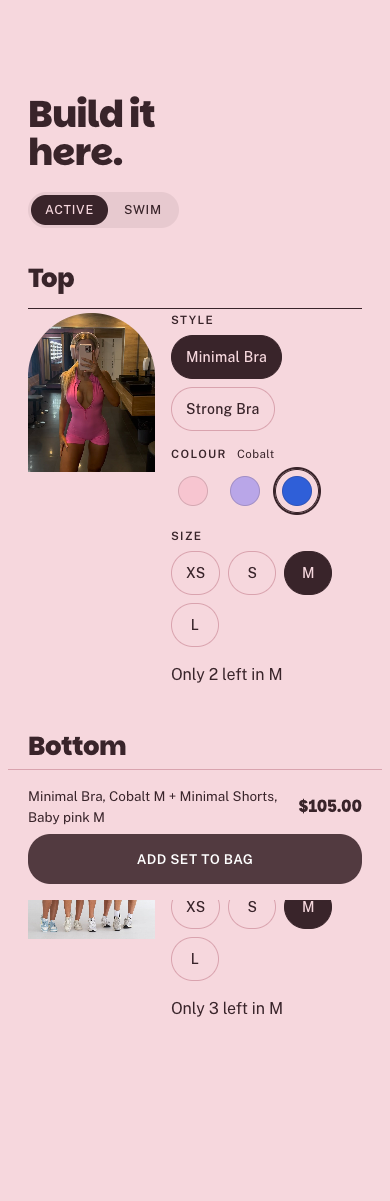
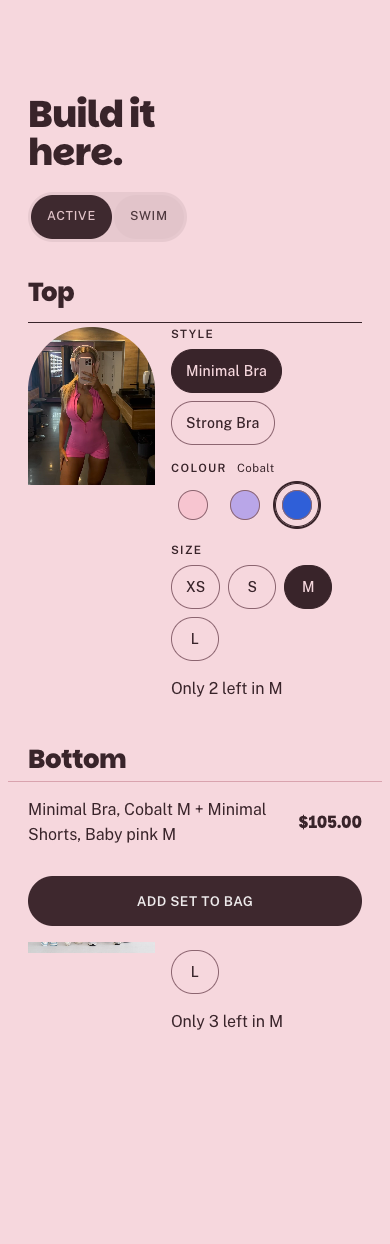
Bebita Collective: UI/UX Pro Max pass (16px body text, press feedback, faster exits)

diff --git a/projects/shopify-store/bebita/theme/assets/bebita.css b/projects/shopify-store/bebita/theme/assets/bebita.css
@@ -107,7 +107,7 @@ body h1, body h2, body h3 { font-family: var(--bb-display); font-weight: 800; le
 .bb-build__text { padding: 36px 20px 0; }
 .bb-build__text p { margin: 18px 0 0; }
 .bb-steps { list-style: none; margin: 28px 0 0; padding: 0; border-top: 1px solid var(--bb-rose); }
-.bb-steps li { display: grid; grid-template-columns: 72px 1fr; gap: 12px; padding: 14px 0; border-bottom: 1px solid var(--bb-rose); font-size: 15px; }
+.bb-steps li { display: grid; grid-template-columns: 72px 1fr; gap: 12px; padding: 14px 0; border-bottom: 1px solid var(--bb-rose); font-size: 16px; line-height: 1.5; }
 .bb-steps span { font-size: 11.5px; font-weight: 600; letter-spacing: 0.12em; text-transform: uppercase; padding-top: 2px; }
 
 /* Lines: Active bleeds left, Swim mirrors it and bleeds right */
@@ -124,7 +124,7 @@ body h1, body h2, body h3 { font-family: var(--bb-display); font-weight: 800; le
 /* Statement: the one inverted band */
 .bb-statement { background: var(--bb-plum); color: var(--bb-ground); margin-top: 96px; padding: 96px 20px 88px; }
 .bb .bb-statement__line { color: var(--bb-ground); font-size: clamp(40px, 11vw, 104px); line-height: 1; max-width: 12ch; margin: 0; }
-.bb .bb-statement__sub { margin: 28px 0 0; color: var(--bb-on-plum-muted); font-size: 15px; letter-spacing: 0.02em; }
+.bb .bb-statement__sub { margin: 28px 0 0; color: var(--bb-on-plum-muted); font-size: 16px; letter-spacing: 0.02em; }
 
 /* Change room: offset pair */
 .bb-room { display: grid; grid-template-columns: 1fr 1fr; gap: 0 14px; padding: 96px 20px 16px; }
@@ -139,8 +139,8 @@ body h1, body h2, body h3 { font-family: var(--bb-display); font-weight: 800; le
 /* Promise strip: hairlines, no boxes */
 .bb-promise { padding: 72px 20px 88px; }
 .bb-promise ul { list-style: none; margin: 0; padding: 0; display: grid; grid-template-columns: 1fr 1fr; border-top: 1px solid var(--bb-plum); }
-.bb-promise li { padding: 18px 12px 18px 0; border-bottom: 1px solid var(--bb-rose); font-size: 14px; line-height: 1.45; }
-.bb-promise strong { display: block; font-weight: 600; font-size: 14.5px; margin-bottom: 4px; }
+.bb-promise li { padding: 18px 12px 18px 0; border-bottom: 1px solid var(--bb-rose); font-size: 16px; line-height: 1.5; }
+.bb-promise strong { display: block; font-weight: 600; font-size: 16px; margin-bottom: 4px; }
 
 /* Reveal: fade and a short rise, one idea at a time */
 [data-reveal] { opacity: 1; }
@@ -289,17 +289,17 @@ body h1, body h2, body h3 { font-family: var(--bb-display); font-weight: 800; le
 .bb-slot__group[hidden] { display: none; }
 .bb-slot__label { font-size: 11.5px; font-weight: 600; letter-spacing: 0.12em; text-transform: uppercase; }
 .bb-slot__label em { font-style: normal; font-weight: 400; letter-spacing: 0.04em; text-transform: none; margin-left: 6px; }
-.bb-slot__stock { margin: 0; font-size: 13.5px; min-height: 1.4em; }
+.bb-slot__stock { margin: 0; font-size: 15px; min-height: 1.5em; }
 .bb-slot__empty { grid-column: 1 / -1; margin: 0; font-size: 15px; }
 .bb-picker__bar { position: sticky; bottom: 0; z-index: 2; margin: 40px -20px -96px; padding: 16px 20px calc(16px + env(safe-area-inset-bottom));
   background: var(--bb-ground); border-top: 1px solid var(--bb-rose); display: grid; grid-template-columns: 1fr auto; gap: 6px 16px; align-items: center; }
-.bb .bb-picker__summary { margin: 0; font-size: 13.5px; grid-column: 1 / 2; max-width: none; }
-.bb-picker__total { margin: 0; font-family: var(--bb-display); font-weight: 800; font-size: 22px; grid-column: 2; grid-row: 1; text-align: right; }
+.bb .bb-picker__summary { margin: 0; font-size: 16px; grid-column: 1 / 2; max-width: none; }
+.bb-picker__total { margin: 0; font-family: var(--bb-display); font-weight: 800; font-size: 22px; font-variant-numeric: tabular-nums; grid-column: 2; grid-row: 1; text-align: right; }
 .bb-picker__total small { display: block; font-family: var(--bb-body); font-weight: 400; font-size: 12px; }
 .bb-pill--static { position: static; grid-column: 1 / -1; width: 100%; height: 50px; border: 0; cursor: pointer; font-family: var(--bb-body); }
 .bb-pill--static[disabled] { background: var(--bb-disabled-bg); color: var(--bb-disabled-ink) !important; cursor: not-allowed; }
 .bb-pill--static[aria-busy="true"] { opacity: 0.8; }
-.bb .bb-picker__error { grid-column: 1 / -1; margin: 0; color: var(--bb-error); font-size: 13.5px; max-width: none; }
+.bb .bb-picker__error { grid-column: 1 / -1; margin: 0; color: var(--bb-error); font-size: 15px; max-width: none; }
 
 /* Product page */
 .bb-product { padding: 0 0 72px; }
@@ -316,7 +316,7 @@ body h1, body h2, body h3 { font-family: var(--bb-display); font-weight: 800; le
 .bb-option { border: 0; margin: 0; padding: 0; min-width: 0; }
 .bb-option legend { padding: 0 0 10px; font-size: 11.5px; font-weight: 600; letter-spacing: 0.12em; text-transform: uppercase; }
 .bb-option legend em { font-style: normal; font-weight: 400; letter-spacing: 0.04em; text-transform: none; margin-left: 6px; }
-.bb-product__stock { margin: -8px 0 0; min-height: 1.4em; font-size: 14px; }
+.bb-product__stock { margin: -8px 0 0; min-height: 1.5em; font-size: 16px; }
 .bb-product__add { height: 54px; font-size: 14px; }
 .bb-pair { border-top: 1px solid var(--bb-plum); padding-top: 18px; display: grid; gap: 12px; }
 .bb-pair__label { margin: 0; font-size: 11.5px; font-weight: 600; letter-spacing: 0.12em; text-transform: uppercase; }
@@ -326,11 +326,11 @@ body h1, body h2, body h3 { font-family: var(--bb-display); font-weight: 800; le
 .bb-pair .bb-arrow { margin-top: 0; justify-self: start; }
 .bb-details { border-top: 1px solid var(--bb-rose); }
 .bb-details details { border-bottom: 1px solid var(--bb-rose); }
-.bb-details summary { list-style: none; cursor: pointer; padding: 18px 0; display: flex; justify-content: space-between; font-weight: 600; font-size: 15px; }
+.bb-details summary { list-style: none; cursor: pointer; padding: 18px 0; min-height: 44px; display: flex; justify-content: space-between; font-weight: 600; font-size: 16px; }
 .bb-details summary::-webkit-details-marker { display: none; }
 .bb-details summary::after { content: '+'; font-weight: 400; font-size: 20px; line-height: 1; }
 .bb-details details[open] summary::after { content: '–'; }
-.bb-rte { padding: 0 0 18px; font-size: 15px; line-height: 1.6; }
+.bb-rte { padding: 0 0 18px; font-size: 16px; line-height: 1.6; }
 .bb-rte p { margin: 0 0 10px; max-width: 60ch; }
 
 /* Collection page */
@@ -346,8 +346,8 @@ body h1, body h2, body h3 { font-family: var(--bb-display); font-weight: 800; le
 .bb-card__alt { opacity: 0; }
 @media (hover: hover) { .bb-card a:hover .bb-card__alt { opacity: 1; } }
 .bb-card__flag { position: absolute; left: 50%; bottom: 12px; transform: translateX(-50%); background: var(--bb-plum); color: var(--bb-ground); border-radius: 999px; padding: 6px 12px; font-size: 11px; font-weight: 600; letter-spacing: 0.1em; text-transform: uppercase; }
-.bb .bb-card__title { margin: 12px 0 0; font-weight: 600; font-size: 15px; max-width: none; }
-.bb .bb-card__meta { margin: 4px 0 0; display: flex; justify-content: space-between; gap: 8px; font-size: 14px; max-width: none; font-variant-numeric: tabular-nums; }
+.bb .bb-card__title { margin: 12px 0 0; font-weight: 600; font-size: 16px; max-width: none; }
+.bb .bb-card__meta { margin: 4px 0 0; display: flex; justify-content: space-between; gap: 8px; font-size: 15px; max-width: none; font-variant-numeric: tabular-nums; }
 .bb-pages { display: flex; justify-content: center; gap: 24px; margin-top: 48px; font-size: 14px; }
 .bb-collection__empty p { font-size: 17px; }
 
@@ -387,3 +387,14 @@ body h1, body h2, body h3 { font-family: var(--bb-display); font-weight: 800; le
 
 .bb-picker__soon { border-top: 1px solid var(--bb-plum); padding-top: 22px; }
 .bb .bb-picker__soon p { font-size: 17px; margin: 0; }
+
+
+/* ui-ux-pro-max pass: press feedback, faster exits, calmer anchor jumps */
+.bb-pill, .bb-chips button, .bb-chip span, .bb-switch button { transition-property: background-color, border-color, color, transform, box-shadow; }
+.bb-pill:active, .bb-chips button:not([aria-disabled="true"]):active, .bb-chip:active span, .bb-switch button:active { transform: scale(0.97); transition-duration: 90ms; }
+.bb-menu:not([open]) { transition-duration: 160ms; }
+#picker, #build { scroll-margin-top: 24px; }
+@media (prefers-reduced-motion: no-preference) { html:has(#picker) { scroll-behavior: smooth; } }
+@media (prefers-reduced-motion: reduce) {
+  .bb-pill:active, .bb-chips button:active, .bb-chip:active span, .bb-switch button:active { transform: none; }
+}

diff --git a/projects/shopify-store/bebita/prototype/home-test.html b/projects/shopify-store/bebita/prototype/home-test.html
@@ -87,7 +87,7 @@
     
       <fieldset class="bb-slot" data-bb-slot="top">
         <legend class="bb-slot__legend">Top</legend>
-        <div class="bb-slot__media"><img alt="" width="720" height="900" data-bb-slot-img hidden></div>
+        <div class="bb-slot__media" data-bb-slot-media></div>
         <div class="bb-slot__controls">
           <div class="bb-slot__group" data-bb-group="style"><span class="bb-slot__label">Style</span><div class="bb-chips" data-bb-chips="style"></div></div>
           <div class="bb-slot__group" data-bb-group="colour"><span class="bb-slot__label">Colour <em data-bb-value="colour"></em></span><div class="bb-chips bb-chips--swatch" data-bb-chips="colour"></div></div>
@@ -97,7 +97,7 @@
         <p class="bb-slot__empty" data-bb-empty hidden>Pieces are being added now. Check back soon.</p>
       </fieldset><fieldset class="bb-slot" data-bb-slot="bottom">
         <legend class="bb-slot__legend">Bottom</legend>
-        <div class="bb-slot__media"><img alt="" width="720" height="900" data-bb-slot-img hidden></div>
+        <div class="bb-slot__media" data-bb-slot-media></div>
         <div class="bb-slot__controls">
           <div class="bb-slot__group" data-bb-group="style"><span class="bb-slot__label">Style</span><div class="bb-chips" data-bb-chips="style"></div></div>
           <div class="bb-slot__group" data-bb-group="colour"><span class="bb-slot__label">Colour <em data-bb-value="colour"></em></span><div class="bb-chips bb-chips--swatch" data-bb-chips="colour"></div></div>

diff --git a/projects/shopify-store/bebita/prototype/picker-test.html b/projects/shopify-store/bebita/prototype/picker-test.html
@@ -14,7 +14,7 @@
     
       <fieldset class="bb-slot" data-bb-slot="top">
         <legend class="bb-slot__legend">Top</legend>
-        <div class="bb-slot__media"><img alt="" width="720" height="900" data-bb-slot-img hidden></div>
+        <div class="bb-slot__media" data-bb-slot-media></div>
         <div class="bb-slot__controls">
           <div class="bb-slot__group" data-bb-group="style"><span class="bb-slot__label">Style</span><div class="bb-chips" data-bb-chips="style"></div></div>
           <div class="bb-slot__group" data-bb-group="colour"><span class="bb-slot__label">Colour <em data-bb-value="colour"></em></span><div class="bb-chips bb-chips--swatch" data-bb-chips="colour"></div></div>
@@ -24,7 +24,7 @@
         <p class="bb-slot__empty" data-bb-empty hidden>Pieces are being added now. Check back soon.</p>
       </fieldset><fieldset class="bb-slot" data-bb-slot="bottom">
         <legend class="bb-slot__legend">Bottom</legend>
-        <div class="bb-slot__media"><img alt="" width="720" height="900" data-bb-slot-img hidden></div>
+        <div class="bb-slot__media" data-bb-slot-media></div>
         <div class="bb-slot__controls">
           <div class="bb-slot__group" data-bb-group="style"><span class="bb-slot__label">Style</span><div class="bb-chips" data-bb-chips="style"></div></div>
           <div class="bb-slot__group" data-bb-group="colour"><span class="bb-slot__label">Colour <em data-bb-value="colour"></em></span><div class="bb-chips bb-chips--swatch" data-bb-chips="colour"></div></div>
